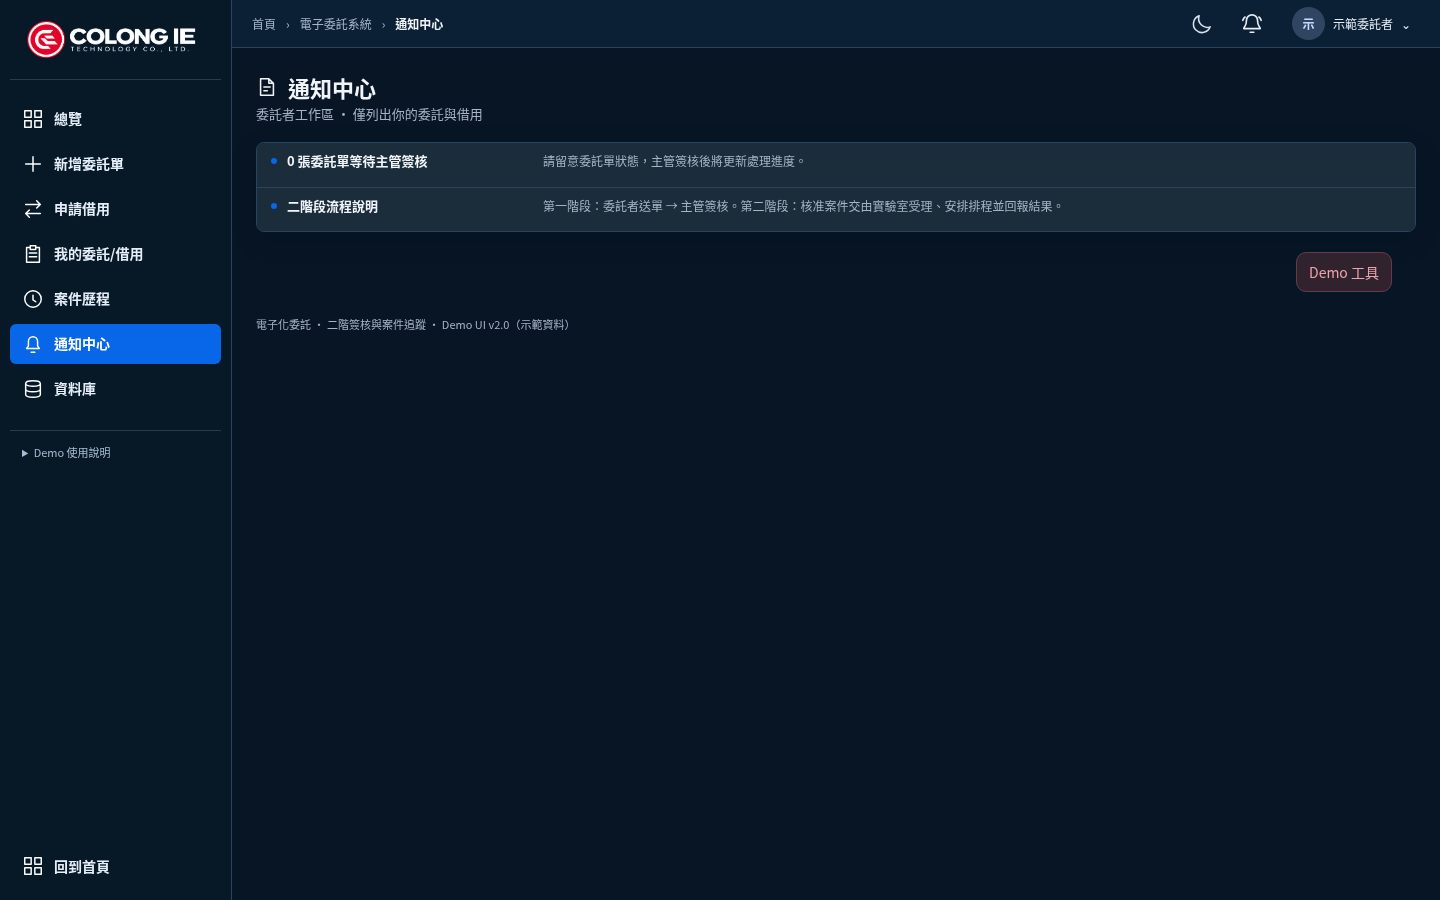
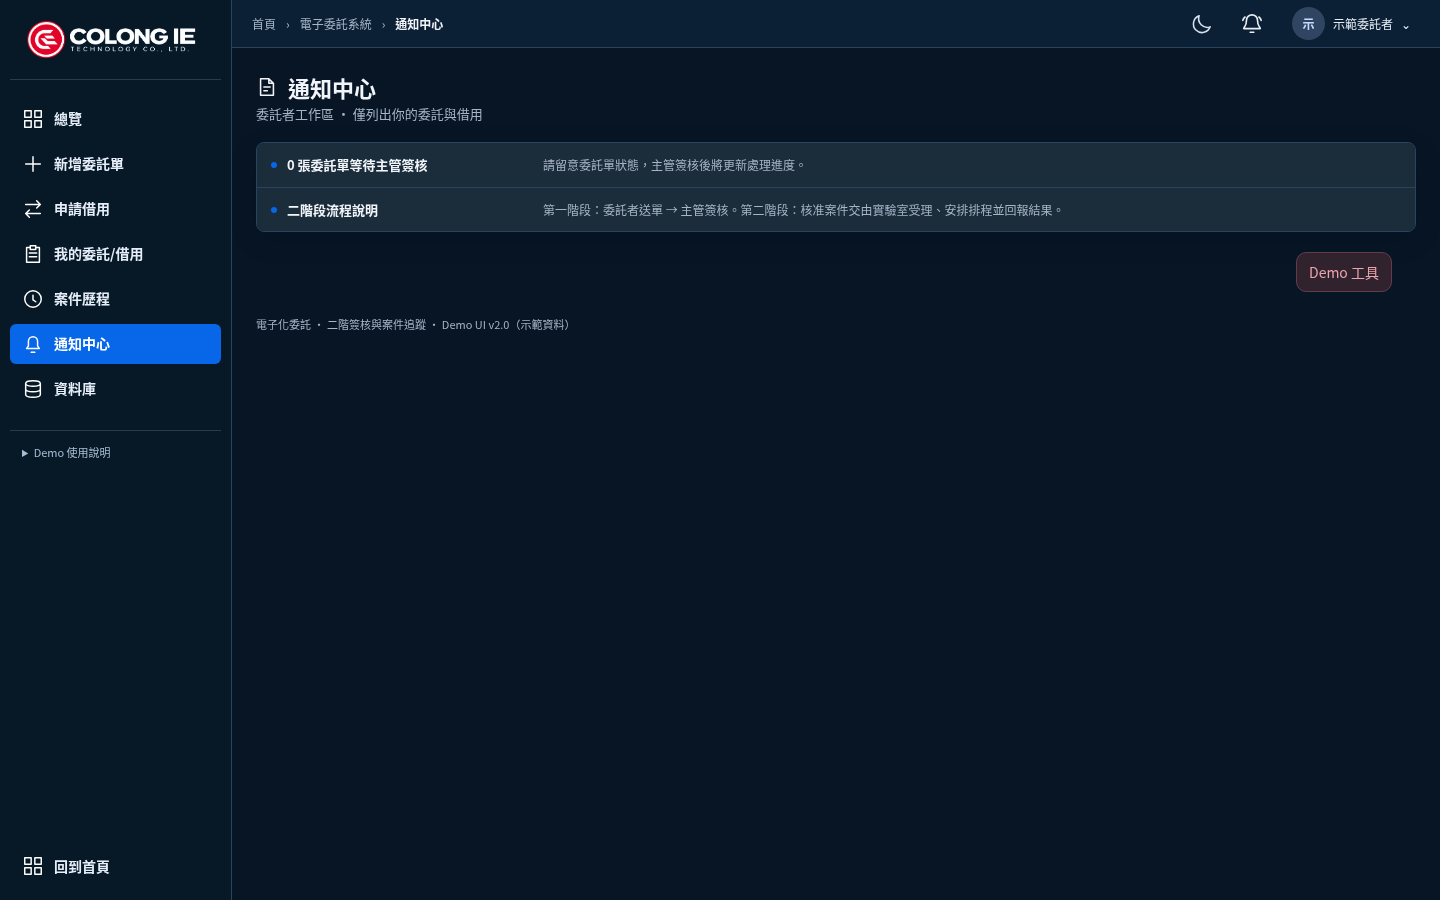
Vertically center notification text and status dots

diff --git a/src/WorkspacePageHeader.css b/src/WorkspacePageHeader.css
@@ -101,10 +101,10 @@
 @media(max-width:720px){#root .rq-app.rq-enterprise .rq-floating-steps{padding:6px;gap:4px}#root .rq-app.rq-enterprise .rq-floating-steps .rq-step-content{flex-direction:column;gap:4px}#root .rq-app.rq-enterprise .rq-floating-steps .rq-step-label{font-size:10px}#root .rq-app.rq-enterprise .rq-floating-steps a{padding:2px}}
 
 /* Dense notification rows retain their full description. */
-#root .rq-enterprise .rq-notifications .rq-notice{display:grid;grid-template-columns:6px minmax(0,1fr);gap:10px;align-items:start;padding:8px 14px;min-height:44px;border-color:var(--enterprise-border)}
+#root .rq-enterprise .rq-notifications .rq-notice{display:grid;grid-template-columns:6px minmax(0,1fr);gap:10px;align-items:center;padding:8px 14px;min-height:44px;border-color:var(--enterprise-border)}
 #root .rq-enterprise .rq-notifications .rq-notice:first-child{border-top:0}
-#root .rq-enterprise .rq-notifications .rq-notice-dot{width:6px;height:6px;margin-top:7px;background:#0866e8}
-#root .rq-enterprise .rq-notifications .rq-notice>div{display:grid;grid-template-columns:minmax(200px,240px) minmax(0,1fr);column-gap:16px;row-gap:2px;align-items:baseline}
+#root .rq-enterprise .rq-notifications .rq-notice-dot{width:6px;height:6px;margin-top:0;background:#0866e8}
+#root .rq-enterprise .rq-notifications .rq-notice>div{display:grid;grid-template-columns:minmax(200px,240px) minmax(0,1fr);column-gap:16px;row-gap:2px;align-items:center}
 #root .rq-enterprise .rq-notifications .rq-notice b{font-size:13px;font-weight:600;line-height:1.5}
 #root .rq-enterprise .rq-notifications .rq-notice p{margin:0;font-size:12px;line-height:1.5;color:var(--enterprise-secondary)}
 @media(max-width:900px){#root .rq-enterprise .rq-notifications .rq-notice>div{grid-template-columns:minmax(0,1fr)}}

diff --git a/docs/compact-notifications-archive.md b/docs/compact-notifications-archive.md
@@ -27,3 +27,5 @@
 新增檢查 5／5 通過，涵蓋桌面深淺色通知列高度不超過 64px、手機橫向無溢出、完整描述、電子委託及 Lab 單一資料庫標題、分類鍵盤切換。既有資料庫／委託回歸 24／24 通過；lint、正式建置及 diff check 通過。
 
 不更動通知計數、案件內容、資料庫讀取權限或檔案處理。預覽供確認，不合併 main。
+
+通知列後續微調：標題、描述與圓點改為垂直置中，移除圓點原有的上方偏移。lint、正式建置、diff check 及版型測試 5／5 通過，通知截圖已更新。
